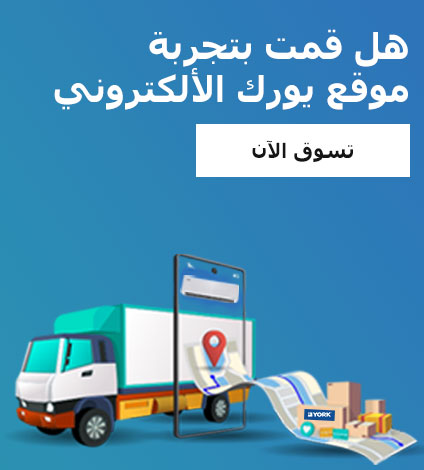
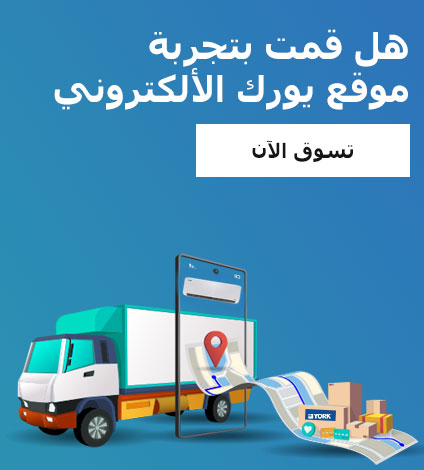
.

Changed region(s): [[0.0307, 0.5362, 0.9811, 0.983]]

diff --git a/style.css b/style.css
@@ -940,7 +940,7 @@ input[type="number"] {
     position: absolute;
     top: 50%;
     left: 50%;
-    transform: translate(-50%, 10%);
+    transform: translate(-50%, 24%);
   }
 }
 /* ========================================
